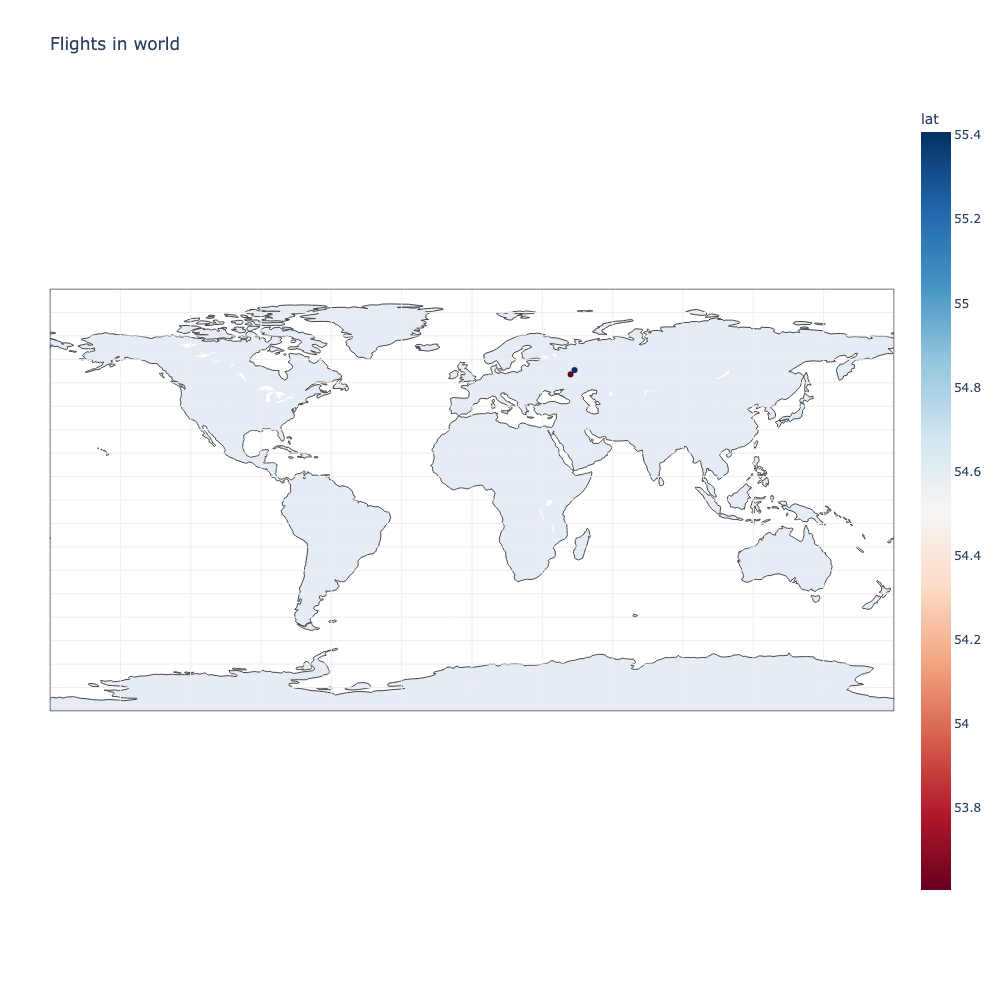
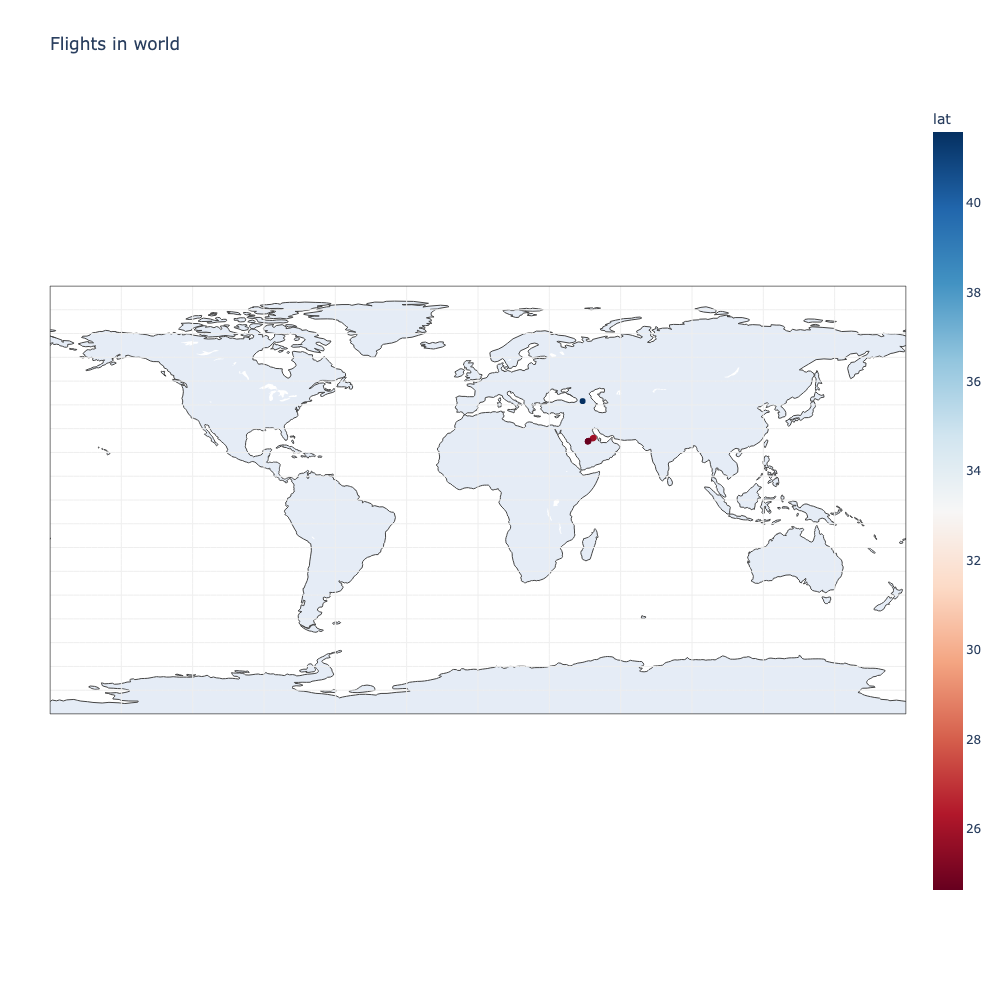
fixed variable issues

diff --git a/api_call.py b/api_call.py
@@ -1,9 +1,12 @@
 import requests
 import json
-def api_call(lat_min, lon_min, lat_max, lon_max):
+
+
+def api_call(lat_min, lat_max, lon_min, lon_max):
     #REST API QUERY
     url_data = 'https://'+''+''+'opensky-network.org/api/states/all?' + \
     'lamin='+str(lat_min)+'&lomin='+str(lon_min)+'&lamax=' + \
     str(lat_max)+'&lomax='+str(lon_max)
     response = requests.get(url_data).json()
+    print(url_data)
     return response 

diff --git a/app.py b/app.py
@@ -37,12 +37,12 @@ def measurement():
     return lat_min, lat_max, lon_min, lon_max
 
 
-lat_min, lon_min, lon_max, lat_max = measurement()
+lat_min, lat_max, lon_min, lon_max = measurement()
 
 
 try:
-    response = api_call(lat_min, lon_min, lat_max, lon_max)
-
+    response = api_call(lat_min, lat_max, lon_min, lon_max)
+    print(response)
 
 #LOAD TO PANDAS DATAFRAME
     col_name = ['icao24', 'callsign', 'origin_country',
